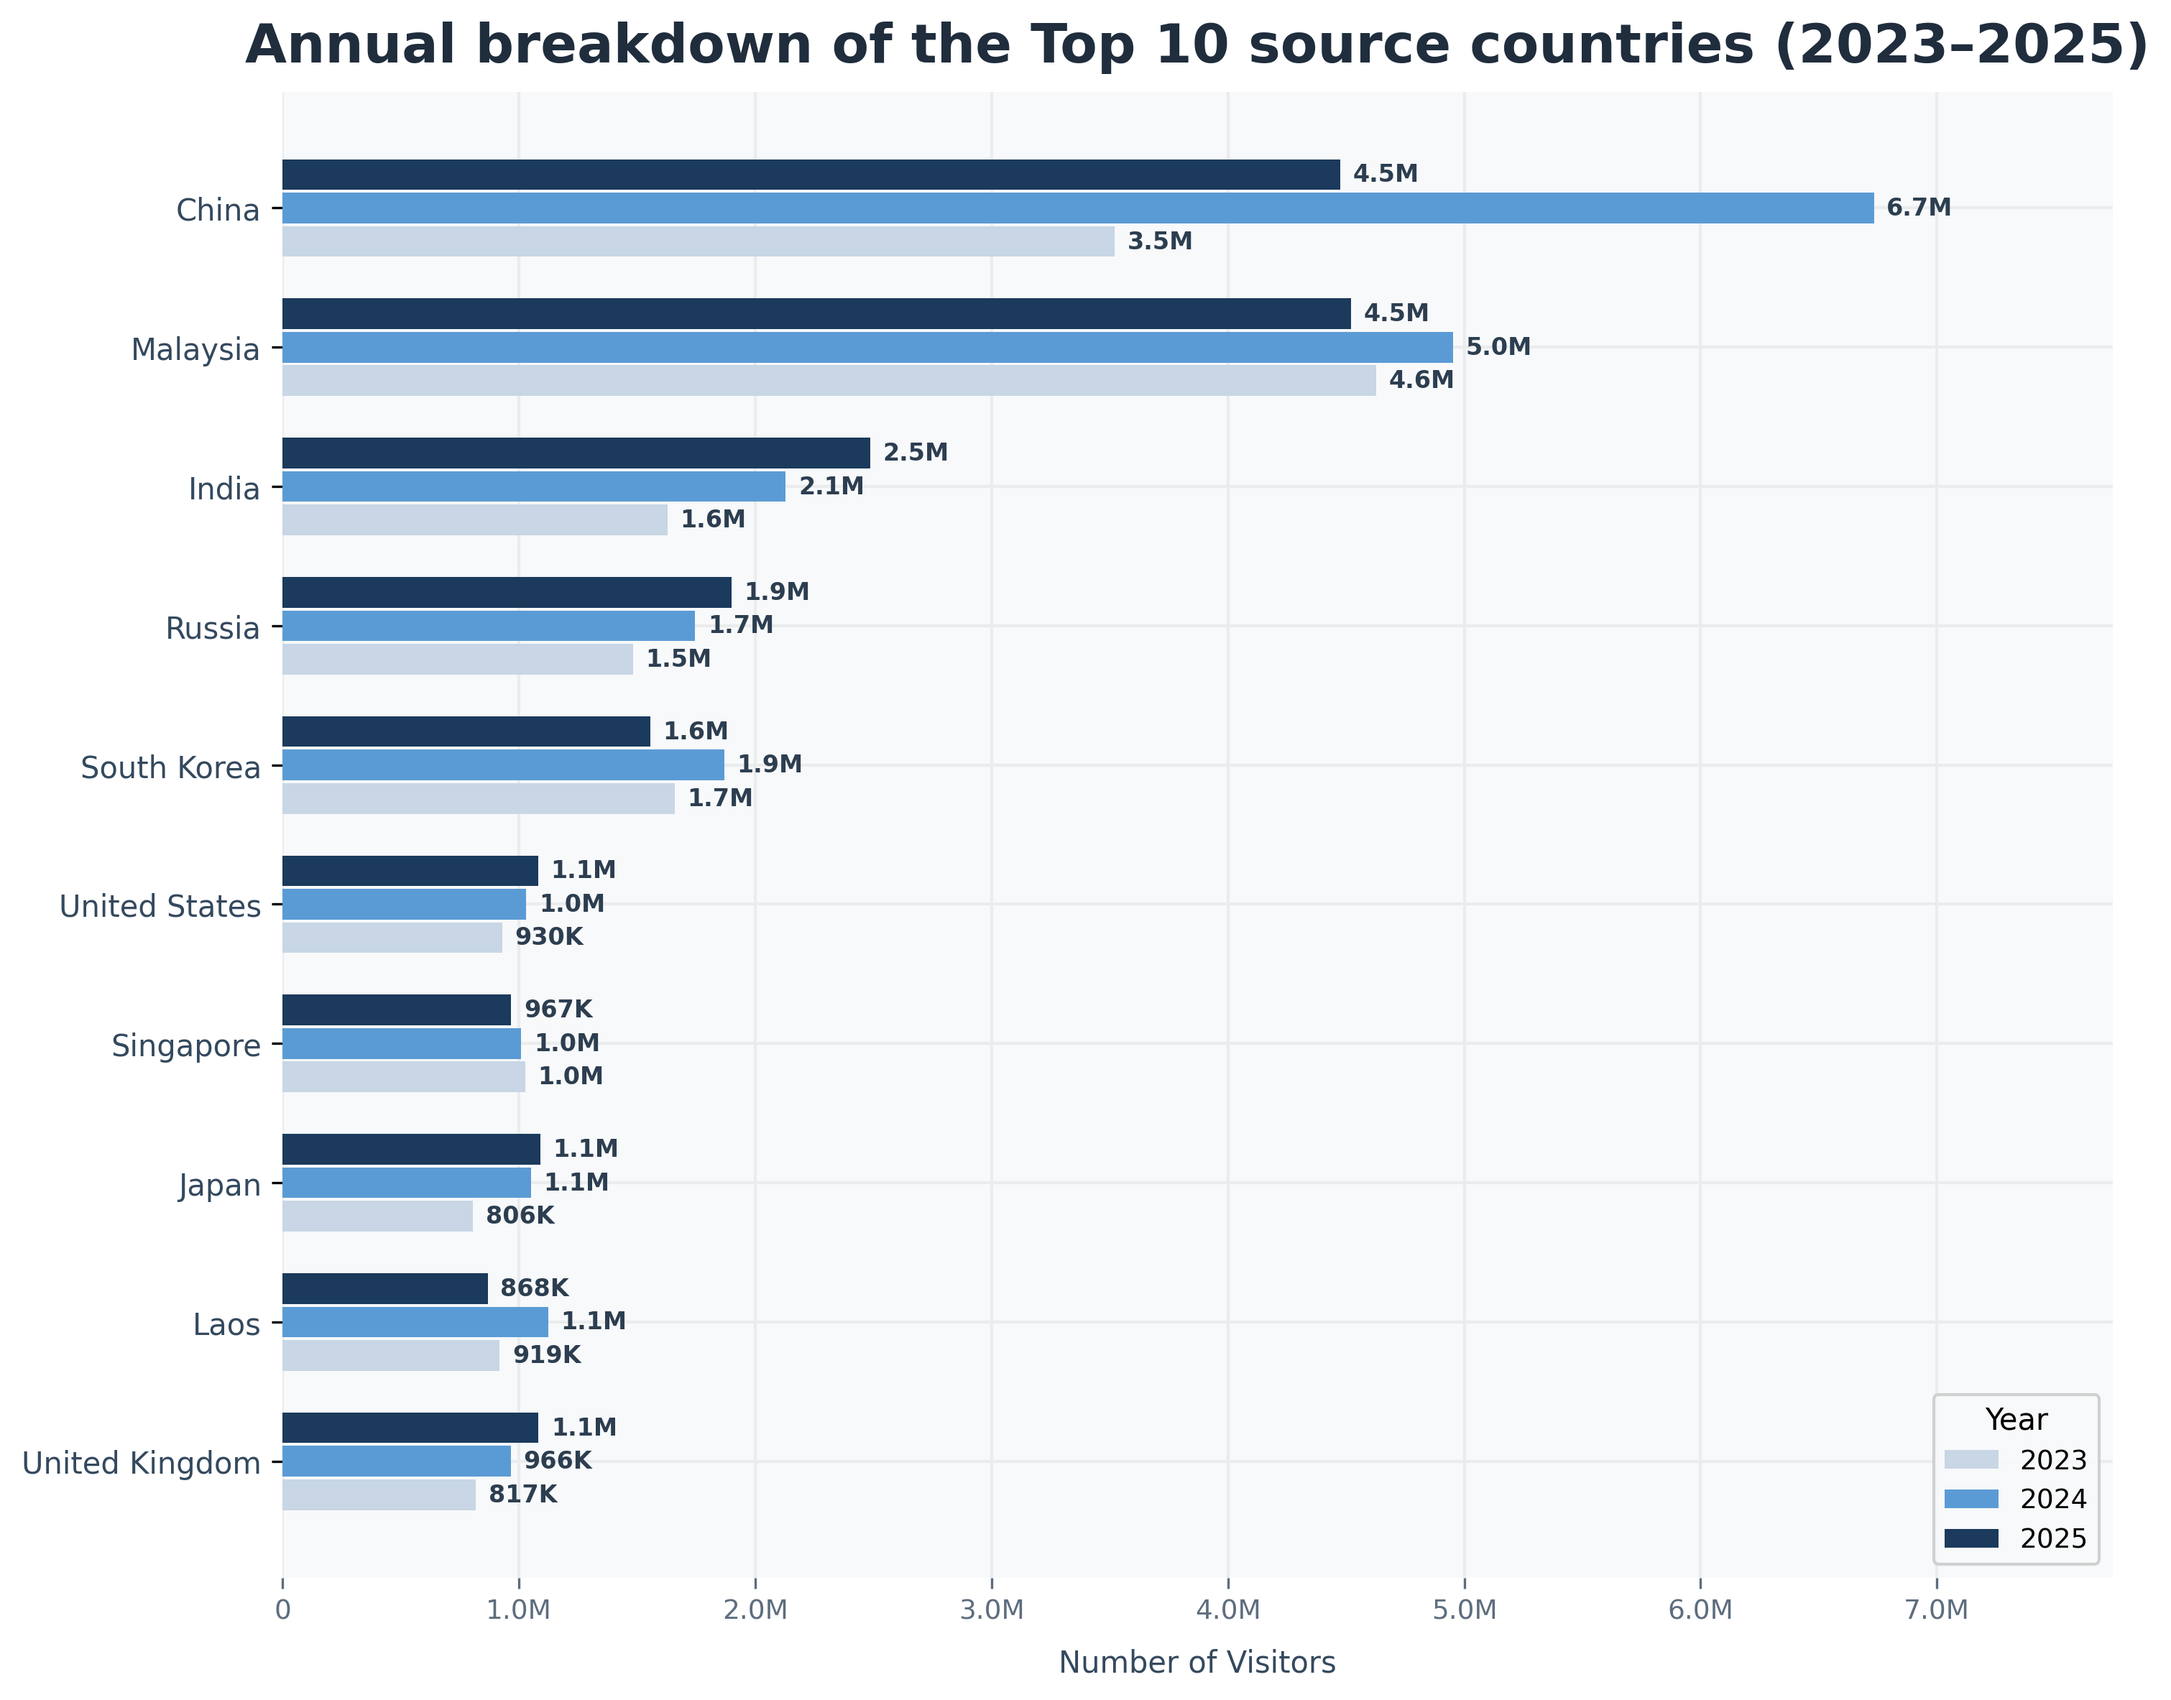
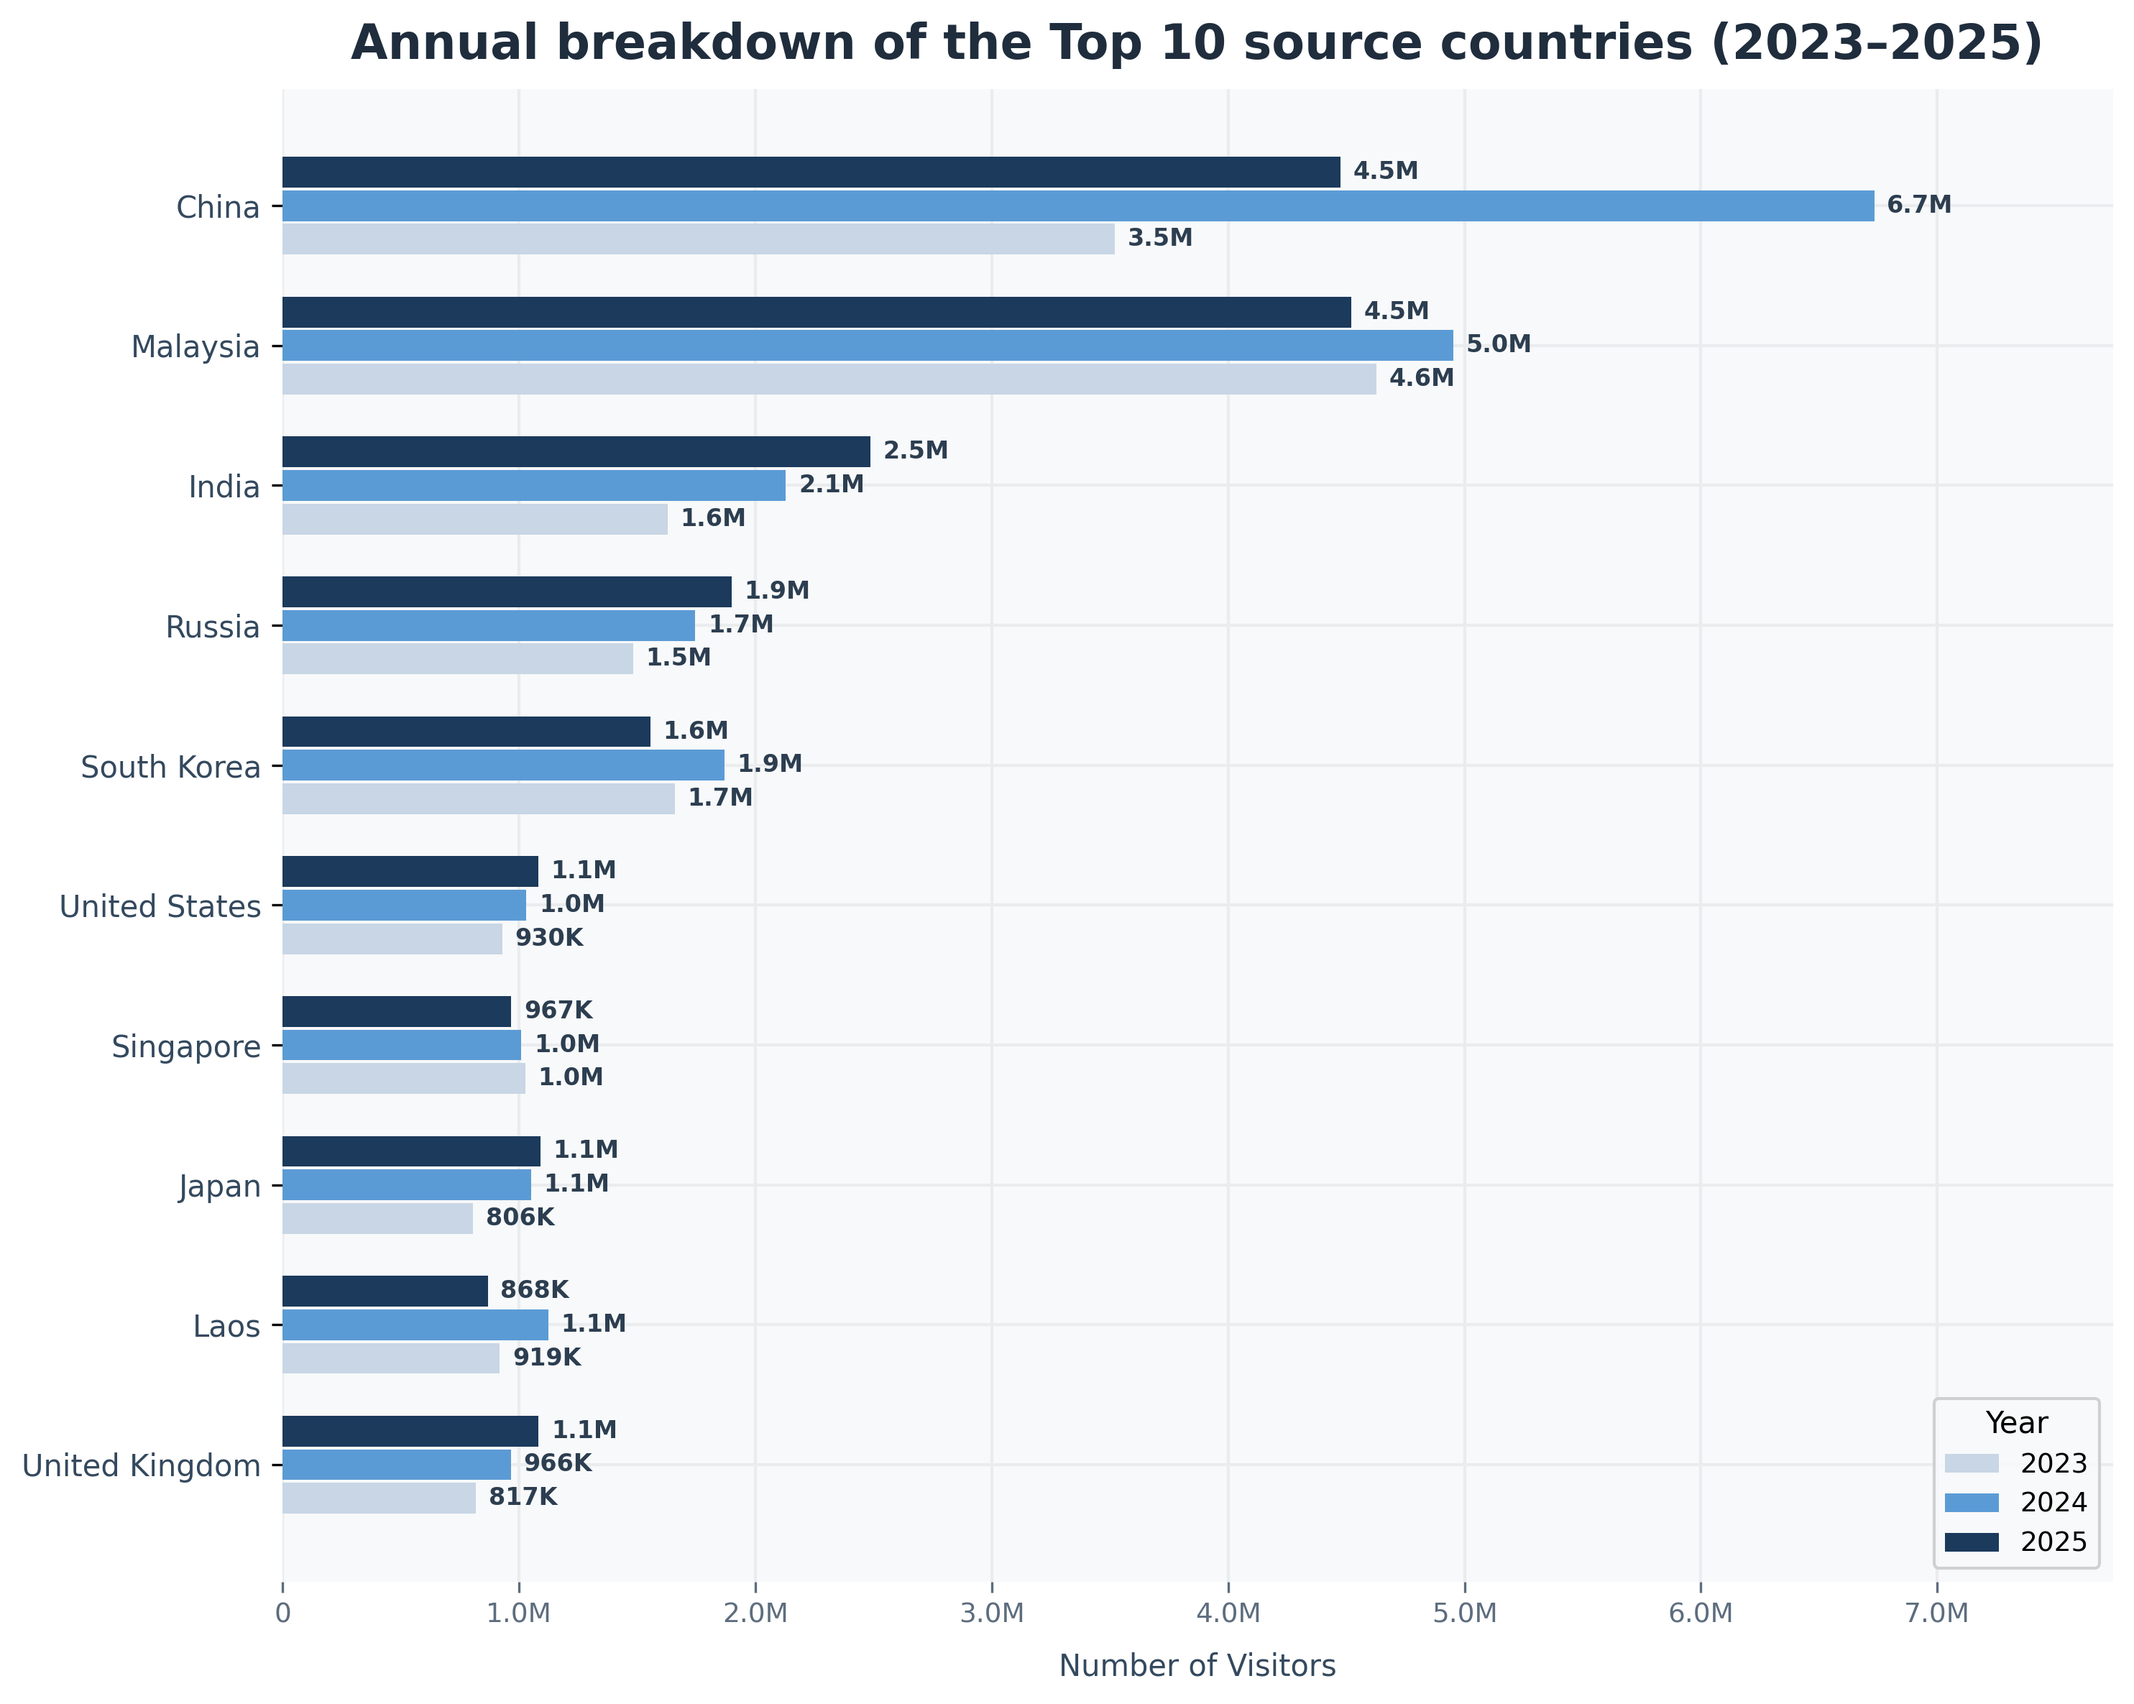
Update visualization scripts and figures

diff --git a/visualizations/07B_mk_segment_77.py b/visualizations/07B_mk_segment_77.py
@@ -1,0 +1,121 @@
+import pandas as pd
+import matplotlib.pyplot as plt
+import matplotlib.ticker as mtick
+import os
+
+# ─── Style ────────────────────────────────────────────────────────────────────
+plt.rcParams.update({
+    'figure.facecolor':  'white',
+    'axes.facecolor':    '#F8F9FA',
+    'axes.grid':         False,  # Global grid off
+    'font.family':       'sans-serif',
+    'axes.spines.top':   False,
+    'axes.spines.right': False,
+    'axes.spines.left':  False,
+    'axes.spines.bottom':False,
+})
+
+# 1. LOAD DATA
+file_path = 'data/processed/final_master_with_trends.csv'
+if not os.path.exists(file_path):
+    file_path = 'final_master_with_trends.csv'
+
+df = pd.read_csv(file_path)
+
+# 2. [PATCH] Fix Nakhon Ratchasima & Data Cleaning
+df['ProvinceThai'] = df['ProvinceThai'].astype(str).str.strip()
+
+mask_korat = df['ProvinceThai'] == 'นครราชสีมา'
+df.loc[mask_korat, 'ProvinceEN'] = 'Nakhon Ratchasima'
+df.loc[mask_korat, 'City_type_TH'] = 'เมืองหลัก'
+df.loc[mask_korat, 'City_type_EN'] = 'Primary City'
+
+df['thai_revenue'] = df['thai_revenue'].fillna(0)
+df['foreign_revenue'] = df['foreign_revenue'].fillna(0)
+df['Price_Index'] = df['Price_Index'].fillna(100)
+
+# 3. CALCULATE REAL REVENUE
+df['thai_rev_real'] = df['thai_revenue'] / (df['Price_Index'] / 100)
+df['fore_rev_real'] = df['foreign_revenue'] / (df['Price_Index'] / 100)
+
+# 4. AGGREGATION
+agg_df = (
+    df.groupby(['ProvinceEN', 'City_type_TH'])[['thai_rev_real', 'fore_rev_real']]
+    .sum()
+    .reset_index()
+)
+agg_df['total_rev'] = agg_df['thai_rev_real'] + agg_df['fore_rev_real']
+
+# 5. SPLIT
+primary_df = agg_df[
+    agg_df['City_type_TH'].str.contains('หลัก', na=False)
+].copy().sort_values('total_rev', ascending=True)
+
+secondary_df = agg_df[
+    agg_df['City_type_TH'].str.contains('รอง', na=False)
+].copy().sort_values('total_rev', ascending=True)
+
+# 6. VISUALIZATION (Same Size Subplots)
+row_height = 0.35
+# Calculate height based on the longest list (Secondary Cities)
+fig_height = max(len(primary_df), len(secondary_df)) * row_height + 4
+
+# Using standard subplots guarantees ax_left and ax_right are exactly the same height
+fig, (ax_left, ax_right) = plt.subplots(1, 2, figsize=(24, fig_height), facecolor='white')
+
+bg_color = '#fcfcfc'
+
+# --- LEFT PANEL: Major Cities ---
+ax_left.set_facecolor(bg_color)
+ax_left.barh(primary_df['ProvinceEN'], primary_df['thai_rev_real'], color='#89c4e1', label='Domestic (Thai)')
+ax_left.barh(primary_df['ProvinceEN'], primary_df['fore_rev_real'], left=primary_df['thai_rev_real'], color='#1a6fa8', label='International (Foreign)')
+
+# Value Labels: fontsize=6, fontweight='bold'
+max_l = primary_df['total_rev'].max()
+for i, total in enumerate(primary_df['total_rev']):
+    ax_left.text(total + (max_l * 0.01), i, f'{total:,.0f}', va='center', fontsize=6, fontweight='bold')
+
+# Subplot Title: fontsize=12, fontweight='bold'
+ax_left.set_title('Major Cities: Revenue Powerhouses', fontsize=14, fontweight='bold', pad=10)
+ax_left.xaxis.set_major_formatter(mtick.StrMethodFormatter('{x:,.0f}'))
+
+# Legend Title: fontsize=10, fontweight='normal' | Legend Text: fontsize=9
+ax_left.legend(title='Revenue Type', title_fontsize=10, loc='lower right', frameon=True, fontsize=9)
+# X-axis Ticks: fontsize=9 | Y-axis Label: fontsize=10
+ax_left.tick_params(axis='x', labelsize=9)
+ax_left.tick_params(axis='y', labelsize=10)
+
+# --- RIGHT PANEL: Secondary Cities ---
+ax_right.set_facecolor(bg_color)
+ax_right.barh(secondary_df['ProvinceEN'], secondary_df['thai_rev_real'], color='#a8ddb5', label='Domestic (Thai)')
+ax_right.barh(secondary_df['ProvinceEN'], secondary_df['fore_rev_real'], left=secondary_df['thai_rev_real'], color='#2a8f48', label='International (Foreign)')
+
+# Value Labels: fontsize=6, fontweight='bold'
+max_r = secondary_df['total_rev'].max()
+for i, total in enumerate(secondary_df['total_rev']):
+    ax_right.text(total + (max_r * 0.01), i, f'{total:,.0f}', va='center', fontsize=6, fontweight='bold')
+
+# Subplot Title: fontsize=12, fontweight='bold'
+ax_right.set_title('Secondary Cities: Emerging Potential', fontsize=14, fontweight='bold', pad=10)
+ax_right.xaxis.set_major_formatter(mtick.StrMethodFormatter('{x:,.0f}'))
+
+# Legend Title: fontsize=10, fontweight='normal' | Legend Text: fontsize=9
+ax_right.legend(title='Revenue Type', title_fontsize=10, loc='lower right', frameon=True, fontsize=9)
+# X-axis Ticks: fontsize=9 | Y-axis Label: fontsize=10
+ax_right.tick_params(axis='x', labelsize=9)
+ax_right.tick_params(axis='y', labelsize=10)
+
+# 7. FINAL TOUCHES
+# Figure Title (suptitle): fontsize=16, fontweight='bold', y=0.87
+plt.suptitle('Full Revenue Comparison', fontsize=16, fontweight='bold', y=0.87)
+
+# FIXED SPACING: Stop the subplots at 0.86 so they don't crash into the title at 0.87
+plt.tight_layout(rect=[0.05, 0.01, 0.95, 0.86], w_pad=10)
+
+# SAVE
+os.makedirs('visualizations', exist_ok=True)
+output_path = 'visualizations/Figure_7B_Revenue_Comparison.png'
+plt.savefig(output_path, dpi=300, bbox_inches='tight')
+plt.show()
+
+print(f"🚀 กราฟถูกสร้างสำเร็จและบันทึกไว้ที่: {output_path}")

diff --git a/visualizations/09_A.py b/visualizations/09_A.py
@@ -108,7 +108,7 @@ ax.set_xlabel('Number of Visitors', fontsize=10, color='#34495E', labelpad=8)
 # Title
 ax.set_title(
     'Annual breakdown of the Top 10 source countries (2023–2025)',
-    fontsize=18,
+    fontsize=16,
     fontweight='bold',
     color='#1F2D3D',
     pad=10

diff --git a/README.md b/README.md
@@ -234,7 +234,7 @@ After conducting a deep dive into the economic performance of the 55 secondary p
 ---
 
 <p align="center">
-  <img src="visualizations/Figure_12_Revenue_Comparison.png" alt="Full Revenue Comparison" width="1000">
+  <img src="visualizations/Figure_7B_Revenue_Comparison.png" alt="Full Revenue Comparison" width="1000">
 </p>
 <p align="center"><strong>Figure 7B. Revenue Powerhouses vs. Emerging Potential
 
